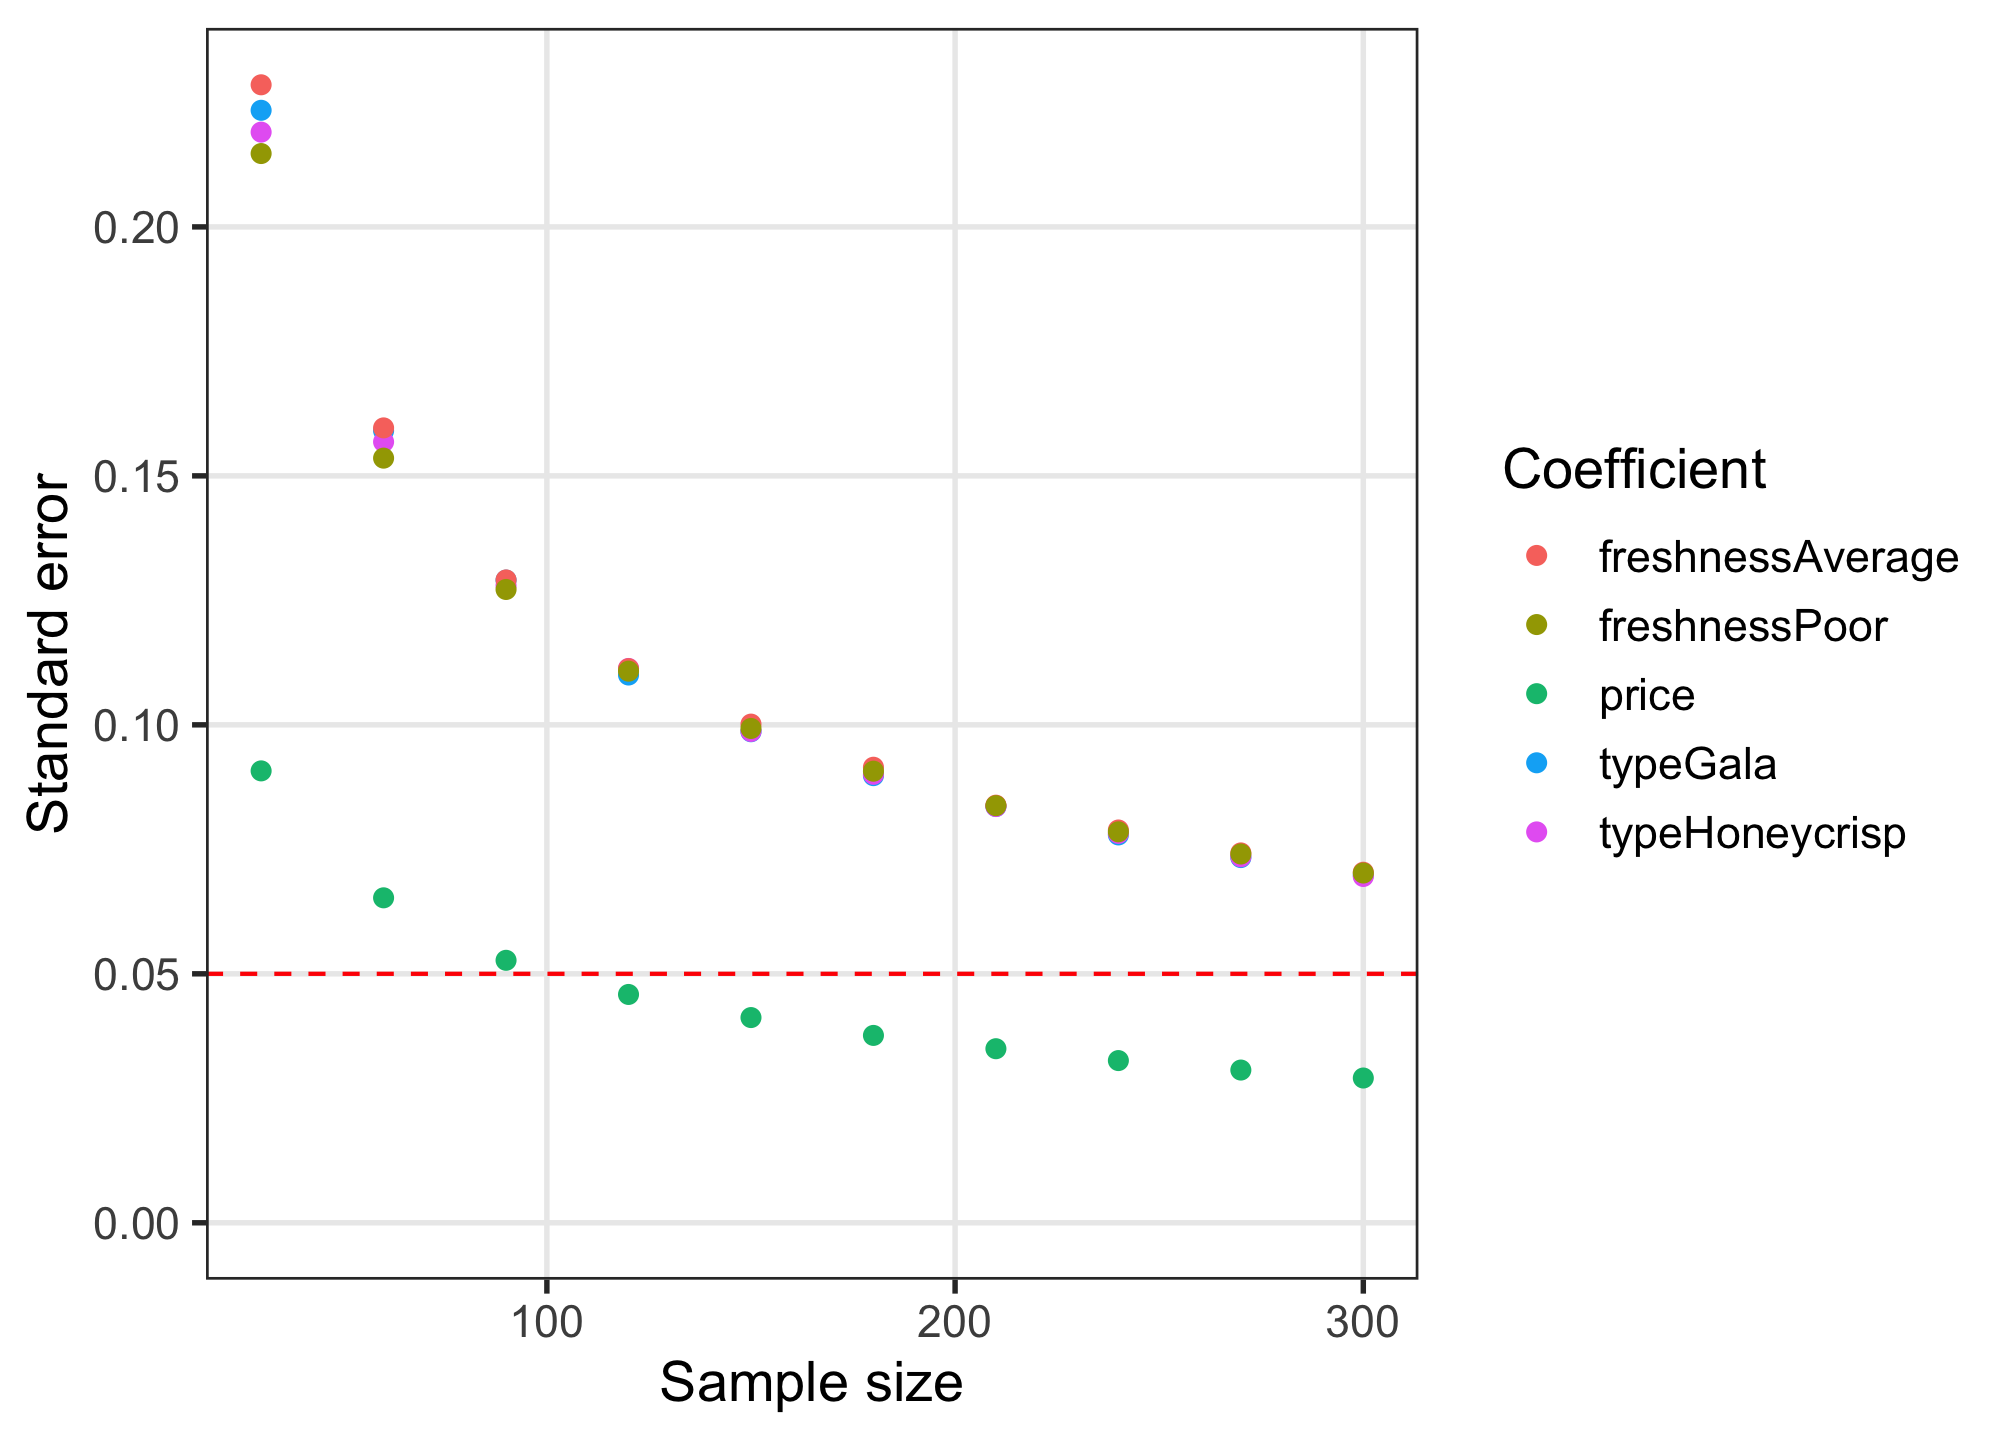
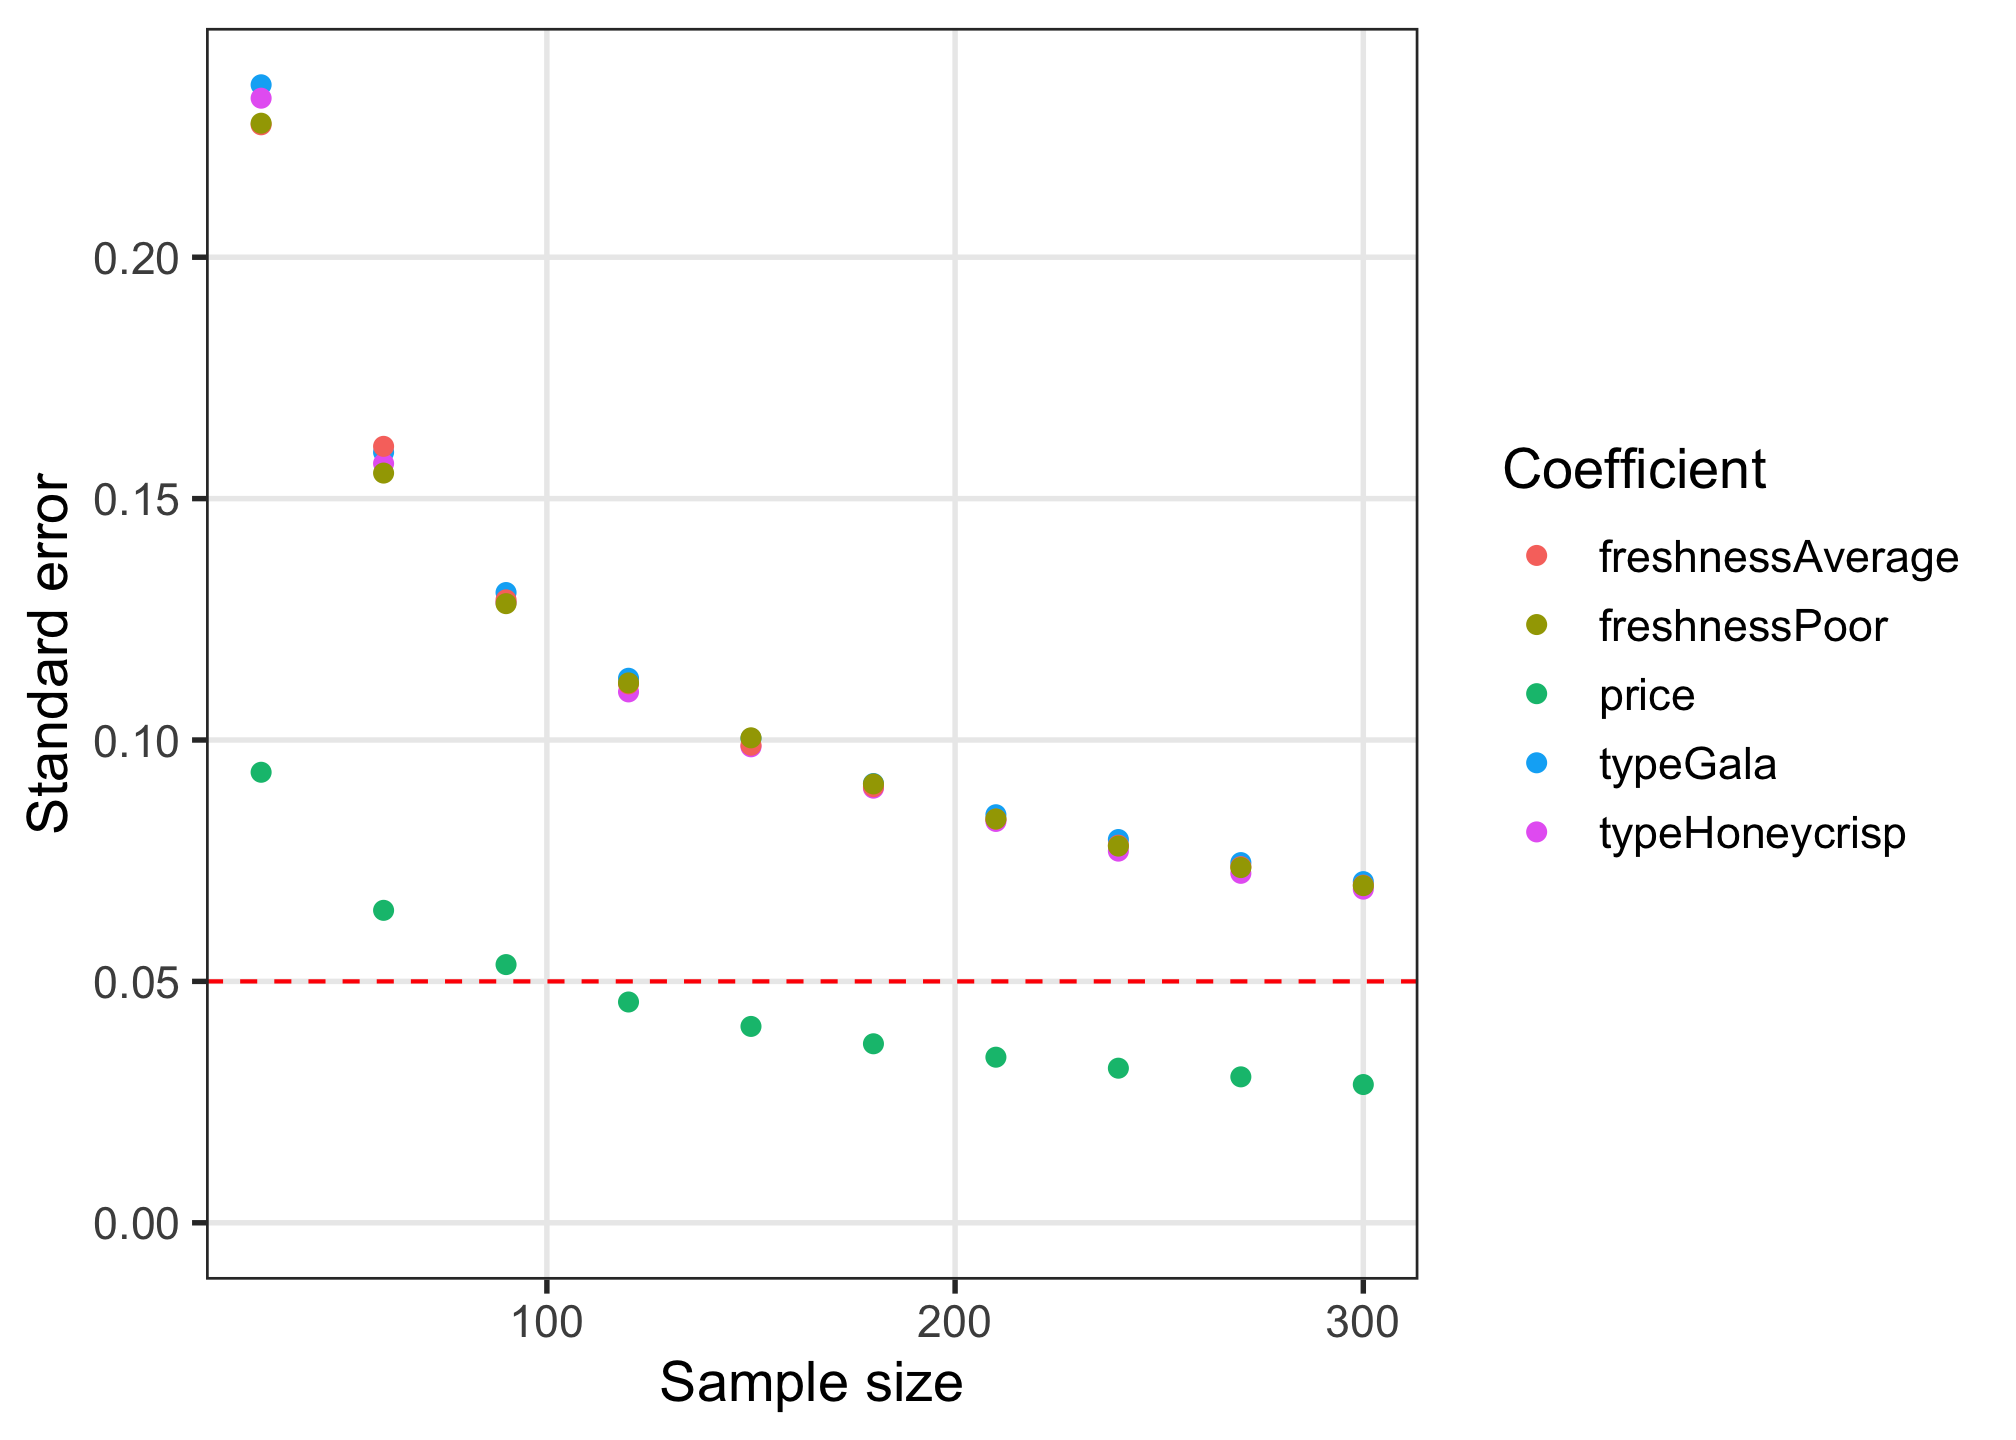
update readme

diff --git a/README.md b/README.md
@@ -14,7 +14,7 @@ conducting power analyses for choice-based conjoint survey experiments
 in R. Each function in the package begins with `cbc_` and supports a
 step in the following process for designing and analyzing surveys:
 
-!()\[man/figures/process.png\]
+![](man/figures/process.png)
 
 ## Installation
 
@@ -148,12 +148,12 @@ dim(design)  # View dimensions
 #> [1] 5400    8
 head(design) # Preview first 6 rows
 #>   respID qID altID obsID profileID price       type freshness
-#> 1      1   1     1     1        10   2.0       Gala Excellent
-#> 2      1   1     2     1        30   1.5       Gala   Average
-#> 3      1   1     3     1        43   1.0       Fuji      Poor
-#> 4      1   2     1     2        21   4.0 Honeycrisp Excellent
-#> 5      1   2     2     2        14   4.0       Gala Excellent
-#> 6      1   2     3     2         3   2.0       Fuji Excellent
+#> 1      1   1     1     1        14   4.0       Gala Excellent
+#> 2      1   1     2     1         5   3.0       Fuji Excellent
+#> 3      1   1     3     1        34   3.5       Gala   Average
+#> 4      1   2     1     2        32   2.5       Gala   Average
+#> 5      1   2     2     2         9   1.5       Gala Excellent
+#> 6      1   2     3     2        63   4.0 Honeycrisp      Poor
 ```
 
 For now, the `cbc_design()` function only generates a randomized design.
@@ -195,12 +195,12 @@ dim(design_labeled)
 #> [1] 5400    8
 head(design_labeled)
 #>   respID qID altID obsID profileID price       type freshness
-#> 1      1   1     1     1        48   3.5       Fuji      Poor
-#> 2      1   1     2     1        14   4.0       Gala Excellent
-#> 3      1   1     3     1        17   2.0 Honeycrisp Excellent
-#> 4      1   2     1     2         5   3.0       Fuji Excellent
-#> 5      1   2     2     2        31   2.0       Gala   Average
-#> 6      1   2     3     2        61   3.0 Honeycrisp      Poor
+#> 1      1   1     1     1         2   1.5       Fuji Excellent
+#> 2      1   1     2     1        11   2.5       Gala Excellent
+#> 3      1   1     3     1        40   3.0 Honeycrisp   Average
+#> 4      1   2     1     2        47   3.0       Fuji      Poor
+#> 5      1   2     2     2         9   1.5       Gala Excellent
+#> 6      1   2     3     2        59   2.0 Honeycrisp      Poor
 ```
 
 In the above example, you can see in the first six rows of the survey
@@ -228,18 +228,18 @@ dim(design_nochoice)
 #> [1] 7200   13
 head(design_nochoice)
 #>   respID qID altID obsID profileID price type_Fuji type_Gala type_Honeycrisp
-#> 1      1   1     1     1         6   3.5         1         0               0
-#> 2      1   1     2     1        18   2.5         0         0               1
-#> 3      1   1     3     1        38   2.0         0         0               1
+#> 1      1   1     1     1        30   1.5         0         1               0
+#> 2      1   1     2     1        14   4.0         0         1               0
+#> 3      1   1     3     1        24   2.0         1         0               0
 #> 4      1   1     4     1         0   0.0         0         0               0
-#> 5      1   2     1     2        47   3.0         1         0               0
-#> 6      1   2     2     2        37   1.5         0         0               1
+#> 5      1   2     1     2        26   3.0         1         0               0
+#> 6      1   2     2     2        35   4.0         0         1               0
 #>   freshness_Excellent freshness_Average freshness_Poor no_choice
-#> 1                   1                 0              0         0
+#> 1                   0                 1              0         0
 #> 2                   1                 0              0         0
 #> 3                   0                 1              0         0
 #> 4                   0                 0              0         1
-#> 5                   0                 0              1         0
+#> 5                   0                 1              0         0
 #> 6                   0                 1              0         0
 ```
 
@@ -260,17 +260,17 @@ cbc_balance(design)
 #> price:
 #> 
 #>   1 1.5   2 2.5   3 3.5   4 
-#> 724 794 799 782 753 798 750 
+#> 748 753 742 818 775 786 778 
 #> 
 #> type:
 #> 
 #>       Fuji       Gala Honeycrisp 
-#>       1814       1761       1825 
+#>       1771       1794       1835 
 #> 
 #> freshness:
 #> 
 #> Excellent   Average      Poor 
-#>      1837      1788      1775 
+#>      1802      1809      1789 
 #> 
 #> ==============================
 #> Pairwise attribute counts:
@@ -278,31 +278,31 @@ cbc_balance(design)
 #> price & type:
 #>      
 #>       Fuji Gala Honeycrisp
-#>   1    233  232        259
-#>   1.5  272  260        262
-#>   2    273  274        252
-#>   2.5  261  252        269
-#>   3    256  242        255
-#>   3.5  268  251        279
-#>   4    251  250        249
+#>   1    253  233        262
+#>   1.5  241  264        248
+#>   2    249  252        241
+#>   2.5  257  276        285
+#>   3    248  278        249
+#>   3.5  262  242        282
+#>   4    261  249        268
 #> 
 #> price & freshness:
 #>      
 #>       Excellent Average Poor
-#>   1         230     251  243
-#>   1.5       273     253  268
-#>   2         272     260  267
-#>   2.5       286     254  242
-#>   3         258     254  241
-#>   3.5       264     269  265
-#>   4         254     247  249
+#>   1         269     225  254
+#>   1.5       249     248  256
+#>   2         258     242  242
+#>   2.5       274     282  262
+#>   3         249     267  259
+#>   3.5       234     272  280
+#>   4         269     273  236
 #> 
 #> type & freshness:
 #>             
 #>              Excellent Average Poor
-#>   Fuji             585     614  615
-#>   Gala             592     585  584
-#>   Honeycrisp       660     589  576
+#>   Fuji             598     575  598
+#>   Gala             579     631  584
+#>   Honeycrisp       625     603  607
 ```
 
 The `cbc_overlap()` function prints out a summary of the amount of
@@ -322,17 +322,17 @@ cbc_overlap(design)
 #> price:
 #> 
 #>    1    2    3 
-#>   25  616 1159 
+#>   24  627 1149 
 #> 
 #> type:
 #> 
 #>    1    2    3 
-#>  158 1228  414 
+#>  185 1166  449 
 #> 
 #> freshness:
 #> 
 #>    1    2    3 
-#>  182 1216  402
+#>  161 1224  415
 ```
 
 ## Simulating choices
@@ -348,12 +348,12 @@ data <- cbc_choices(
 
 head(data)
 #>   respID qID altID obsID profileID price       type freshness choice
-#> 1      1   1     1     1        10   2.0       Gala Excellent      0
-#> 2      1   1     2     1        30   1.5       Gala   Average      1
-#> 3      1   1     3     1        43   1.0       Fuji      Poor      0
-#> 4      1   2     1     2        21   4.0 Honeycrisp Excellent      0
-#> 5      1   2     2     2        14   4.0       Gala Excellent      0
-#> 6      1   2     3     2         3   2.0       Fuji Excellent      1
+#> 1      1   1     1     1        14   4.0       Gala Excellent      1
+#> 2      1   1     2     1         5   3.0       Fuji Excellent      0
+#> 3      1   1     3     1        34   3.5       Gala   Average      0
+#> 4      1   2     1     2        32   2.5       Gala   Average      0
+#> 5      1   2     2     2         9   1.5       Gala Excellent      1
+#> 6      1   2     3     2        63   4.0 Honeycrisp      Poor      0
 ```
 
 You can also pass a list of prior parameters to define a utility model
@@ -435,20 +435,20 @@ results <- cbc_power(
 
 head(results)
 #>   sampleSize             coef          est         se
-#> 1         30            price -0.003496871 0.09075320
-#> 2         30         typeGala -0.107772895 0.22341468
-#> 3         30   typeHoneycrisp  0.223392471 0.21903106
-#> 4         30 freshnessAverage -0.018088982 0.22853611
-#> 5         30    freshnessPoor  0.047667302 0.21473040
-#> 6         60            price  0.035007108 0.06526043
+#> 1         30            price -0.054967595 0.09331697
+#> 2         30         typeGala  0.241460837 0.23571546
+#> 3         30   typeHoneycrisp -0.025891938 0.23294214
+#> 4         30 freshnessAverage  0.282635623 0.22742947
+#> 5         30    freshnessPoor  0.200574674 0.22775789
+#> 6         60            price  0.001842514 0.06471784
 tail(results)
 #>    sampleSize             coef          est         se
-#> 45        270    freshnessPoor  0.030058873 0.07405703
-#> 46        300            price  0.033320430 0.02907289
-#> 47        300         typeGala  0.044571885 0.06980725
-#> 48        300   typeHoneycrisp -0.074113825 0.06954693
-#> 49        300 freshnessAverage  0.010923880 0.07039688
-#> 50        300    freshnessPoor -0.006226523 0.07023654
+#> 45        270    freshnessPoor  0.021202810 0.07357262
+#> 46        300            price  0.036521461 0.02863566
+#> 47        300         typeGala -0.146216522 0.07066389
+#> 48        300   typeHoneycrisp -0.119684914 0.06911106
+#> 49        300 freshnessAverage  0.079206886 0.06993513
+#> 50        300    freshnessPoor  0.006282582 0.06983651
 ```
 
 The `results` object is a data frame containing the coefficient
